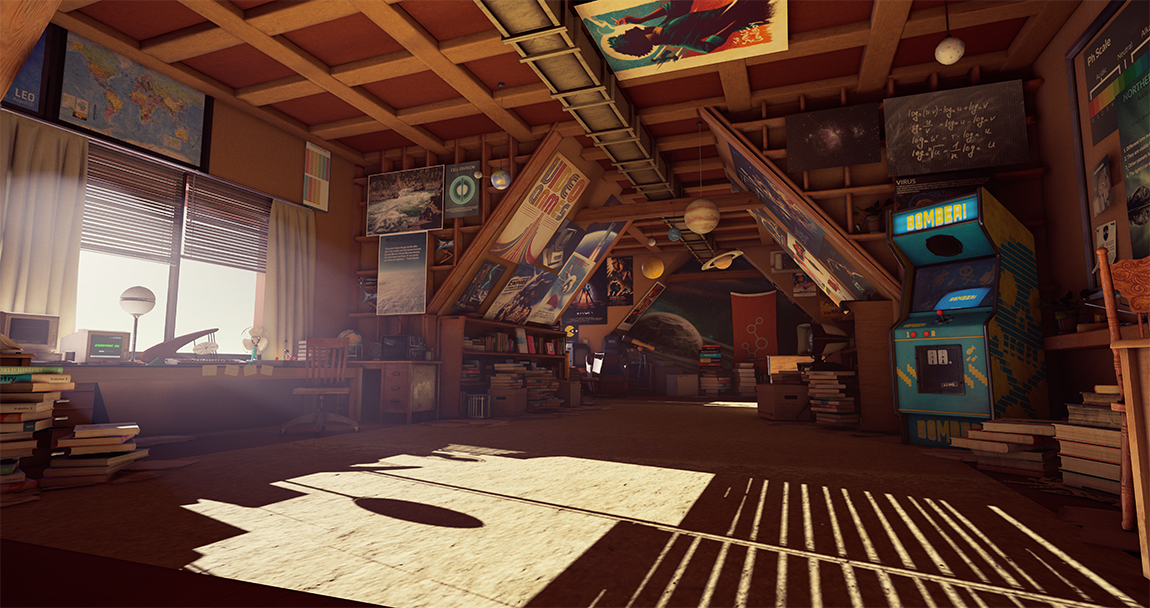
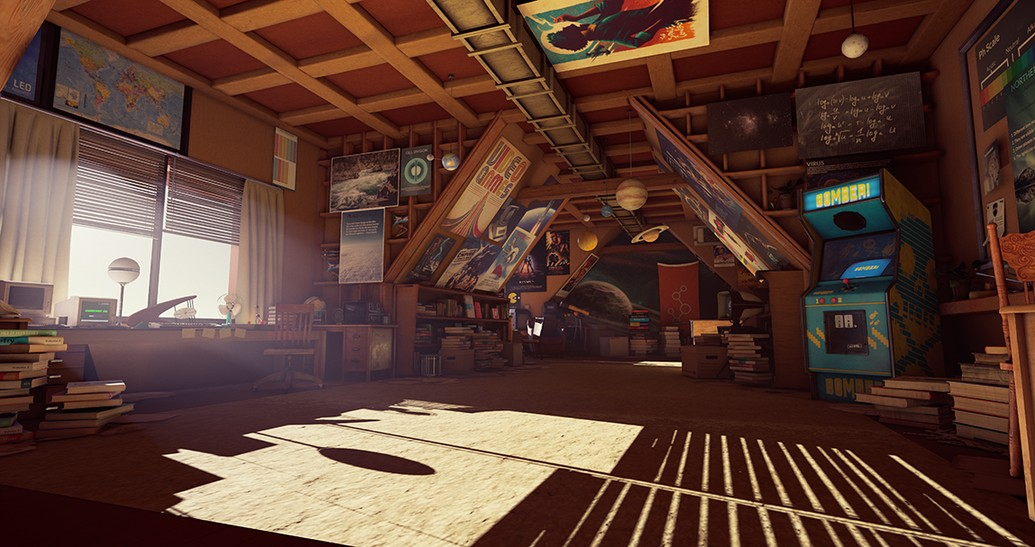
compress pics

diff --git a/assets/img/scene/compress.py b/assets/img/scene/compress.py
@@ -1,0 +1,30 @@
+import os
+from PIL import Image
+
+def compress_and_resize_images(folder_path, quality=90, resize_percentage=90):
+    for filename in os.listdir(folder_path):
+        if filename.lower().endswith(('.jpg', '.jpeg', '.png')):
+            file_path = os.path.join(folder_path, filename)
+            img = Image.open(file_path)
+
+            # 计算新尺寸
+            new_width = int(img.width * resize_percentage / 100)
+            new_height = int(img.height * resize_percentage / 100)
+
+            # 调整尺寸
+            img_resized = img.resize((new_width, new_height), Image.ANTIALIAS)
+
+            # 检查是否为RGBA模式，如果是则转换
+            if img_resized.mode == 'RGBA':
+                img_resized = img_resized.convert('RGB')
+
+            # 原始文件重命名
+            # original_path = os.path.join(folder_path, filename.split('.')[0] + '_original.' + filename.split('.')[-1])
+            # os.rename(file_path, original_path)
+
+            # 设置压缩质量并保存图片
+            img_resized.save(file_path, 'JPEG', quality=quality, optimize=True)
+
+# 使用当前目录
+current_folder = os.getcwd()
+compress_and_resize_images(current_folder)
